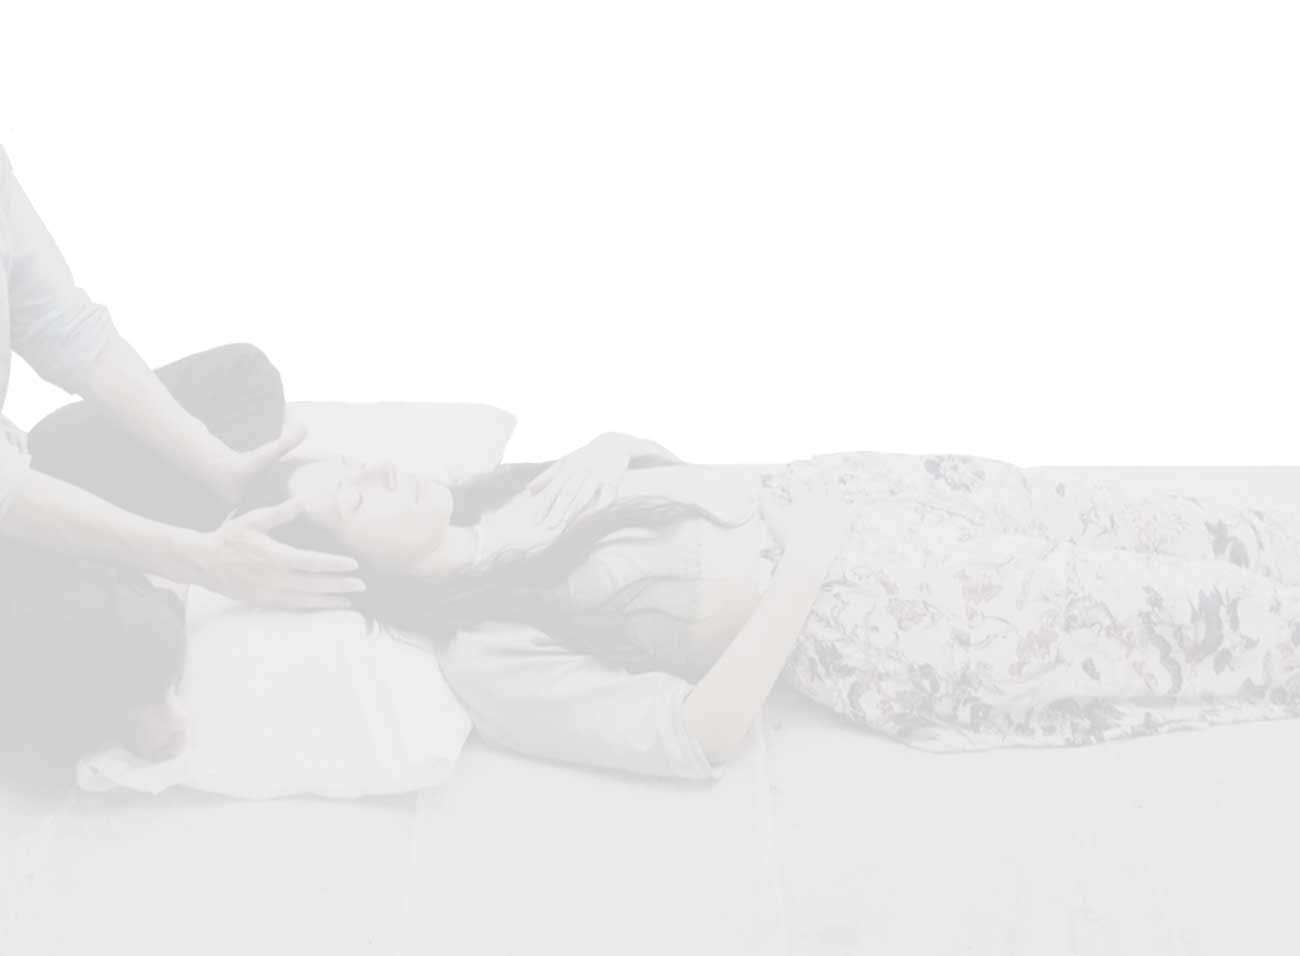
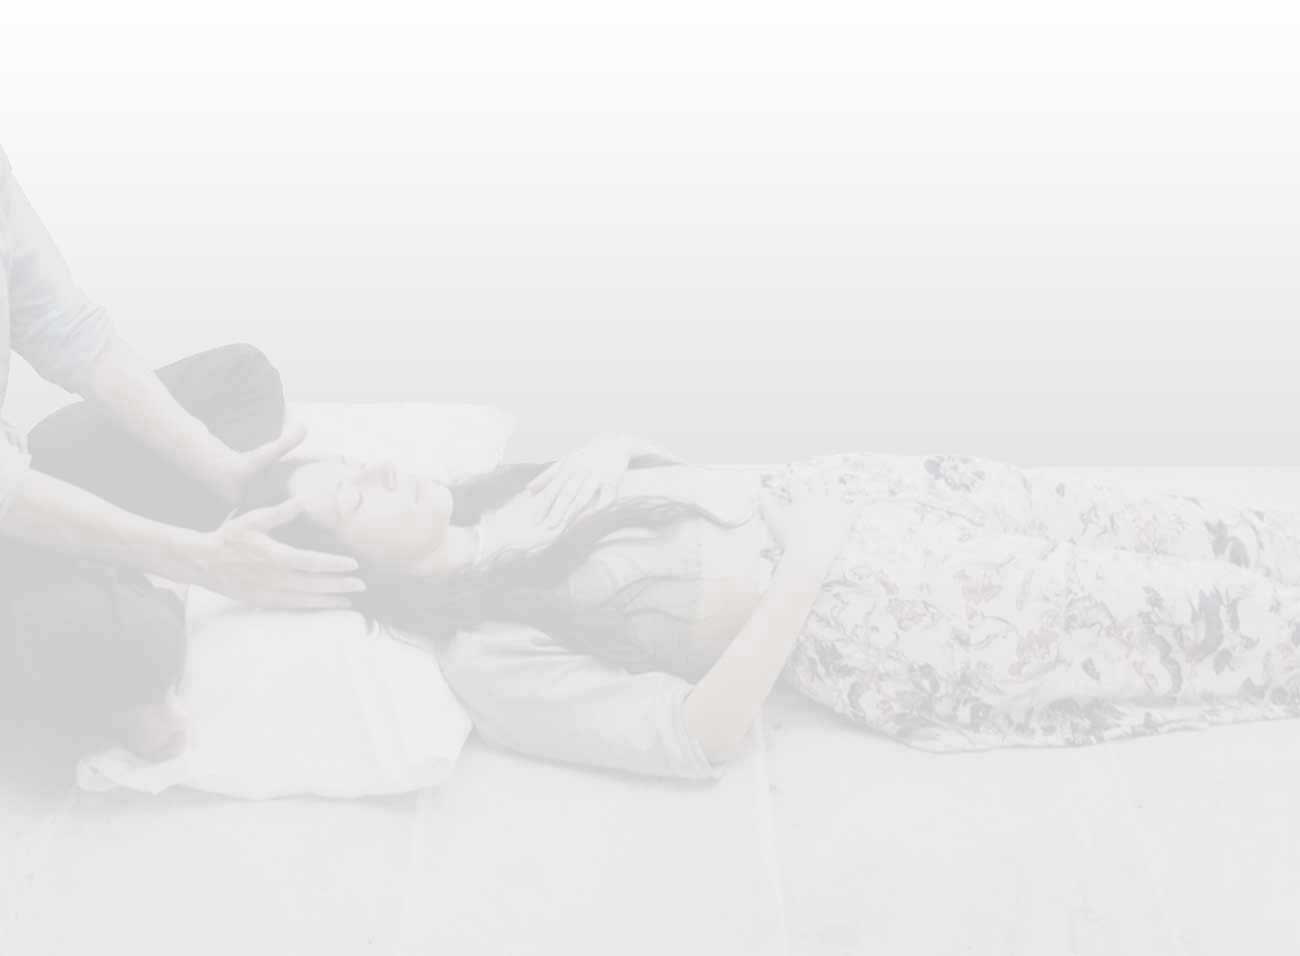
trying a background change

Changed region(s): [[0.4923, 0.4247, 1.0, 0.4854], [0.3692, 0.4247, 0.4615, 0.4854]]

diff --git a/assets/js/main.js b/assets/js/main.js
@@ -65,7 +65,7 @@ Canvas.prototype.options = {
   height: 400,
   size: 5,
   radius: 1,
-  background: '240, 240, 240',
+  background: '240, 240, 240, 0.6',
   maxDistance: 100
 }
 
@@ -145,9 +145,9 @@ Canvas.prototype.ghost = function() {
   this.ctx.globalCompositeOperation = "source-over";
   this.ctx.rect(0, 0 , this.width, this.height);
   if(typeof this.options.background === 'string') {
-    this.ctx.fillStyle = "rgb(" + this.options.background + ")";
+    this.ctx.fillStyle = "rgba(" + this.options.background + ")";
   } else  {
-    this.ctx.fillStyle = "rgb(" + this.options.background[0] + ")";
+    this.ctx.fillStyle = "rgba(" + this.options.background[0] + ")";
   }
     
   this.ctx.fill();
@@ -157,13 +157,13 @@ Canvas.prototype.ghostGradient = function() {
   var gradient;
   
   if(typeof this.options.background === 'string') {
-    this.ctx.fillStyle = 'rgb(' + this.options.background + ')';   
+    this.ctx.fillStyle = 'rgba(' + this.options.background + ')';   
   } else {
     var gradient = this.ctx.createLinearGradient(0, 0, 0, this.height);
     
     var length = this.options.background.length;
     for(var i = 0; i < length; i++){
-      gradient.addColorStop((i+1) / length, 'rgb(' + this.options.background[i] + ')');
+      gradient.addColorStop((i+1) / length, 'rgba(' + this.options.background[i] + ')');
     }
     this.ctx.fillStyle = gradient;
   }
@@ -290,7 +290,7 @@ new Canvas({
   size: 15,
   color: '30, 180, 1',
   maxDistance: 100,
-  background: ['248,248,248', '209,211,212']
+  background: ['248,248,248,0.8', '209,211,212,5']
 });
 
 $(window).on("scroll", function() {

diff --git a/assets/css/style.css b/assets/css/style.css
@@ -9,7 +9,12 @@ body {
   color: #5e5e5e;
   margin: 0;
   letter-spacing: 0.8;
-  font-size: 16px;
+  font-size: 1rem;
+  background-image: url(../img/background2.png);
+  background-attachment: fixed;
+  background-size: cover;
+  background-position: center;
+  background-repeat: no-repeat;
 }
 
 #canvas {
@@ -17,7 +22,7 @@ body {
   height: 100%;
   position: fixed;
   z-index: 100;
-  background: linear-gradient(rgb(248,248,248), rgb(219,220,221));
+  opacity: 0.8;
 }
 .page-content {
   position: relative;
@@ -778,11 +783,10 @@ background: radial-gradient(ellipse at center, #dedcdc 0%,#a3a3a7 100%); /* W3C,
     display: none;
   }
   .dropdown-menu {
-      background: rgb(255,255,255);
-    background: linear-gradient(0deg, rgba(255,255,255,0.95) 0%, rgba(255,255,255,0.95) 86%, rgba(255,255,255,0) 100%);
-  text-align: left;
-  top: 80px;
-  padding-left: 0;
+    background: rgb(255,255,255);
+    text-align: left;
+    top: 80px;
+    padding-left: 0;
   }
   .egg-page > div, .pricing-container, .contact-container {
     max-width: 950px;
